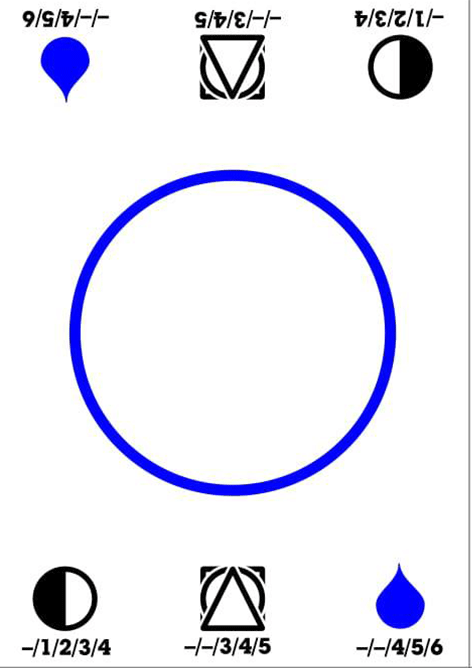
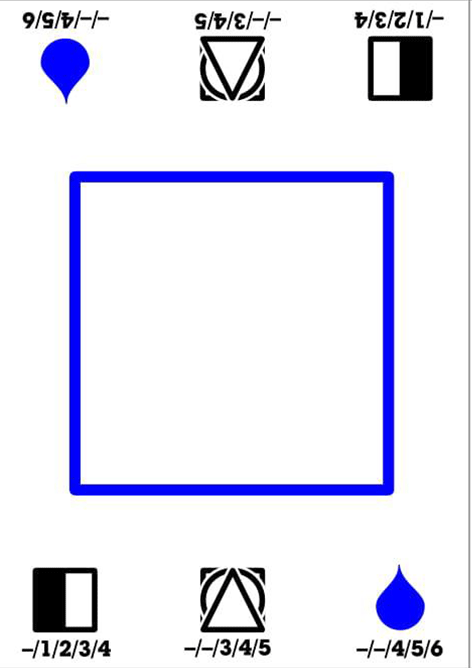
Update images_Cartes_PiocheCartes

diff --git a/src/Modele/Carte.java b/src/Modele/Carte.java
@@ -1,22 +1,23 @@
 package Modele;
 
-import java.awt.image.BufferedImage;
-
 public class Carte {
 	/*
 	 * There are 3 possible shapes for a card: circle, triangle, square.
 	 */
-	private String forme;
-	
-	/*
-	 * There are 3 possible colors for a card: red, blue or green
-	 */
-	private String couleur;
+	protected enum formePossible {cercle, carré, triangle};
+	private formePossible forme;
 	
 	/*
 	 * There are only 2 main states of card: hollow and solid
 	 */
-	private String nature;
+	protected enum naturePossible {plein, vide};
+	private naturePossible nature;
+	
+	/*
+	 * There are 3 possible colors for a card: red, blue or green
+	 */
+	protected enum couleurPossible {bleu, vert, rouge};
+	private couleurPossible couleur;
 	
 	/*
 	 * Face of card: UP or DOWN
@@ -28,57 +29,58 @@ public class Carte {
 	 * Each card has a different image
 	 * Each card can be up or down (recto vs verso)
 	 */
-	private BufferedImage carteImage;
+//	private BufferedImage carteImage;
 	
+
 	/*
 	 * Constructor of card
 	 */
-	public Carte(String forme, String couleur, String nature) { //+ BufferedImage carteImage
+	public Carte(formePossible forme, naturePossible nature, couleurPossible couleur) { //+ BufferedImage carteImage
 		this.forme = forme;
-		this.couleur = couleur;
 		this.nature = nature;
+		this.couleur = couleur;
 //		this.carteImage = carteImage;
 	}
 	
 	/*
 	 * get card's form
 	 */
-	public String getForme() {
+	public formePossible getForme() {
 		return this.forme;
 	}
 	
 	/*
 	 * Set card's form
 	 */
-	public void setForme(String forme) {
+	public void setForme(formePossible forme) {
 		this.forme = forme;
 	}
 	
 	/*
 	 * get card's color
 	 */
-	public String getCouleur() {
+	public couleurPossible getCouleur() {
 		return this.couleur;
 	}
 	
 	/*
 	 * Set card's color
 	 */
-	public void setCouleur(String couleur) {
+	public void setCouleur(couleurPossible couleur) {
 		this.couleur = couleur;
 	}
 	
 	/*
 	 * get card's nature
 	 */
-	public String getNature() {
+	public naturePossible getNature() {
 		return this.nature;
 	}
 	
 	/*
 	 * Set card's nature
 	 */
-	public void setNature(String nature) {
+	public void setNature(naturePossible nature) {
 		this.nature = nature;
 	}
 	
@@ -107,7 +109,4 @@ public class Carte {
 			System.out.println("Verso");
 		}
 	}
-	
-	
 }
-

diff --git a/src/Modele/PiocheCartes.java b/src/Modele/PiocheCartes.java
@@ -2,6 +2,8 @@ package Modele;
 
 import java.util.ArrayList;
 
+import Modele.Carte.*;
+
 public class PiocheCartes {
 	private ArrayList<Carte> piocheCartes = new ArrayList<Carte>();
 	private Carte[] cartesOrg = new Carte[18];
@@ -10,18 +12,18 @@ public class PiocheCartes {
 	 * Create an array that contains all of the card
 	 */
 	public void creerCartes() {
-		String[] natures = {"solid", "hollow"};
-		String[] formes = {"circle", "square", "triangle"};
-		String[] couleurs = {"red", "green", "blue"};
+		naturePossible[] natures = {naturePossible.plein, naturePossible.vide};
+		formePossible[] formes = {formePossible.cercle, formePossible.carré, formePossible.triangle};
+		couleurPossible[] couleurs = {couleurPossible.bleu, couleurPossible.vert, couleurPossible.rouge};
 		
-		int compteur = 0;
+		int compteur = 0, c = 0;
 		
 		int ind;
 		
-		for (int i = 0; i < natures.length; i++) {
-			for (int j = 0; j < formes.length; j++) {
+		for (int i = 0; i < formes.length; i++) {
+			for (int j = 0; j < natures.length; j++) {
 				for (int k = 0; k < couleurs.length; k++) {
-					Carte carte = new Carte(natures[i], formes[j], couleurs[k]);  //need to add BufferedImage carteImage
+					Carte carte = new Carte(formes[i], natures[j], couleurs[k]);  //need to add BufferedImage carteImage
 					
 					while (compteur < cartesOrg.length) {
 						ind = (int) (Math.random() * cartesOrg.length);
@@ -43,10 +45,11 @@ public class PiocheCartes {
 		
 //		for (int i = 0; i < cartesOrg.length; i++) {
 //			System.out.println(i + 1 + ") "
-//					+ piocheCartes.get(i).getNature() + " "
 //					+ piocheCartes.get(i).getForme() + " "
+//					+ piocheCartes.get(i).getNature() + " "
 //					+ piocheCartes.get(i).getCouleur());
 //		}
+		
 	}
 	
 	/*
